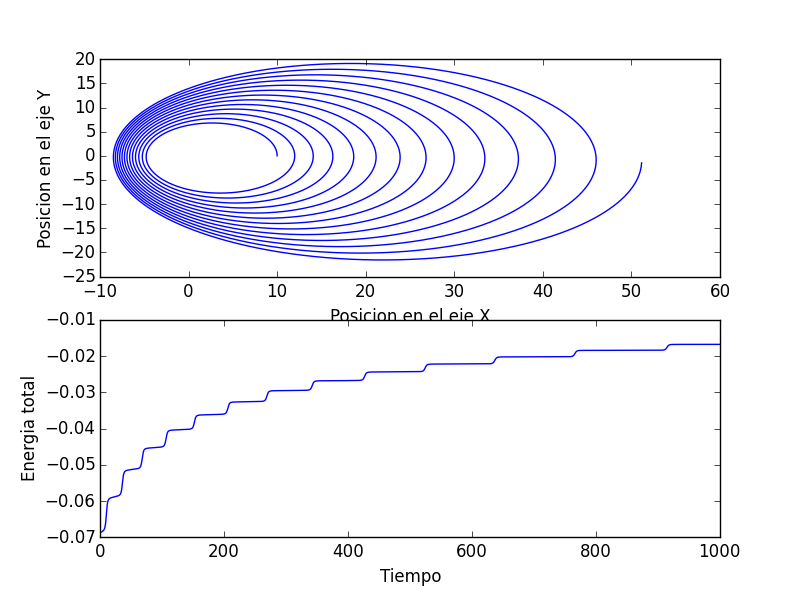
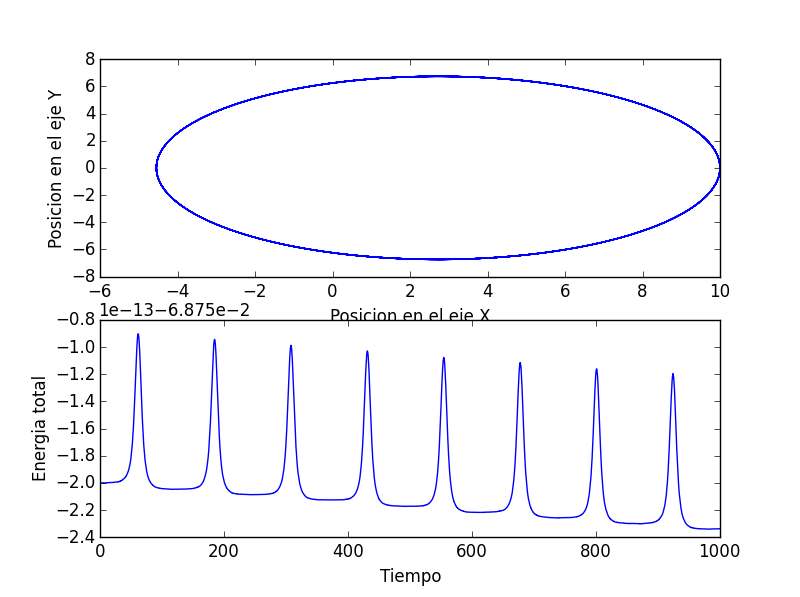
Se arregla rk4
Se agrega el detalle que faltaba para que rk4 funcione como se espera
\o/

diff --git a/planeta.py b/planeta.py
@@ -101,10 +101,10 @@ class Planeta(object):
         k4_vy = dt* vy4
 
         x, y, vx, vy = self.y_actual
-        xn = x + (k1_x + 2* k2_x + 2* k3_x + k4_x)
-        yn = y + (k1_y + 2* k2_y + 2* k3_y + k4_y)
-        vxn = vx + (k1_vx + 2* k2_vx + 2* k3_vx + k4_vx)
-        vyn = vy + (k1_vy + 2* k2_vy + 2* k3_vy + k4_vy)
+        xn = x + (k1_x + 2* k2_x + 2* k3_x + k4_x)/6.
+        yn = y + (k1_y + 2* k2_y + 2* k3_y + k4_y)/6.
+        vxn = vx + (k1_vx + 2* k2_vx + 2* k3_vx + k4_vx)/6.
+        vyn = vy + (k1_vy + 2* k2_vy + 2* k3_vy + k4_vy)/6.
         self.y_actual = [xn, yn, vxn, vyn]
         self.t_actual += dt
 
